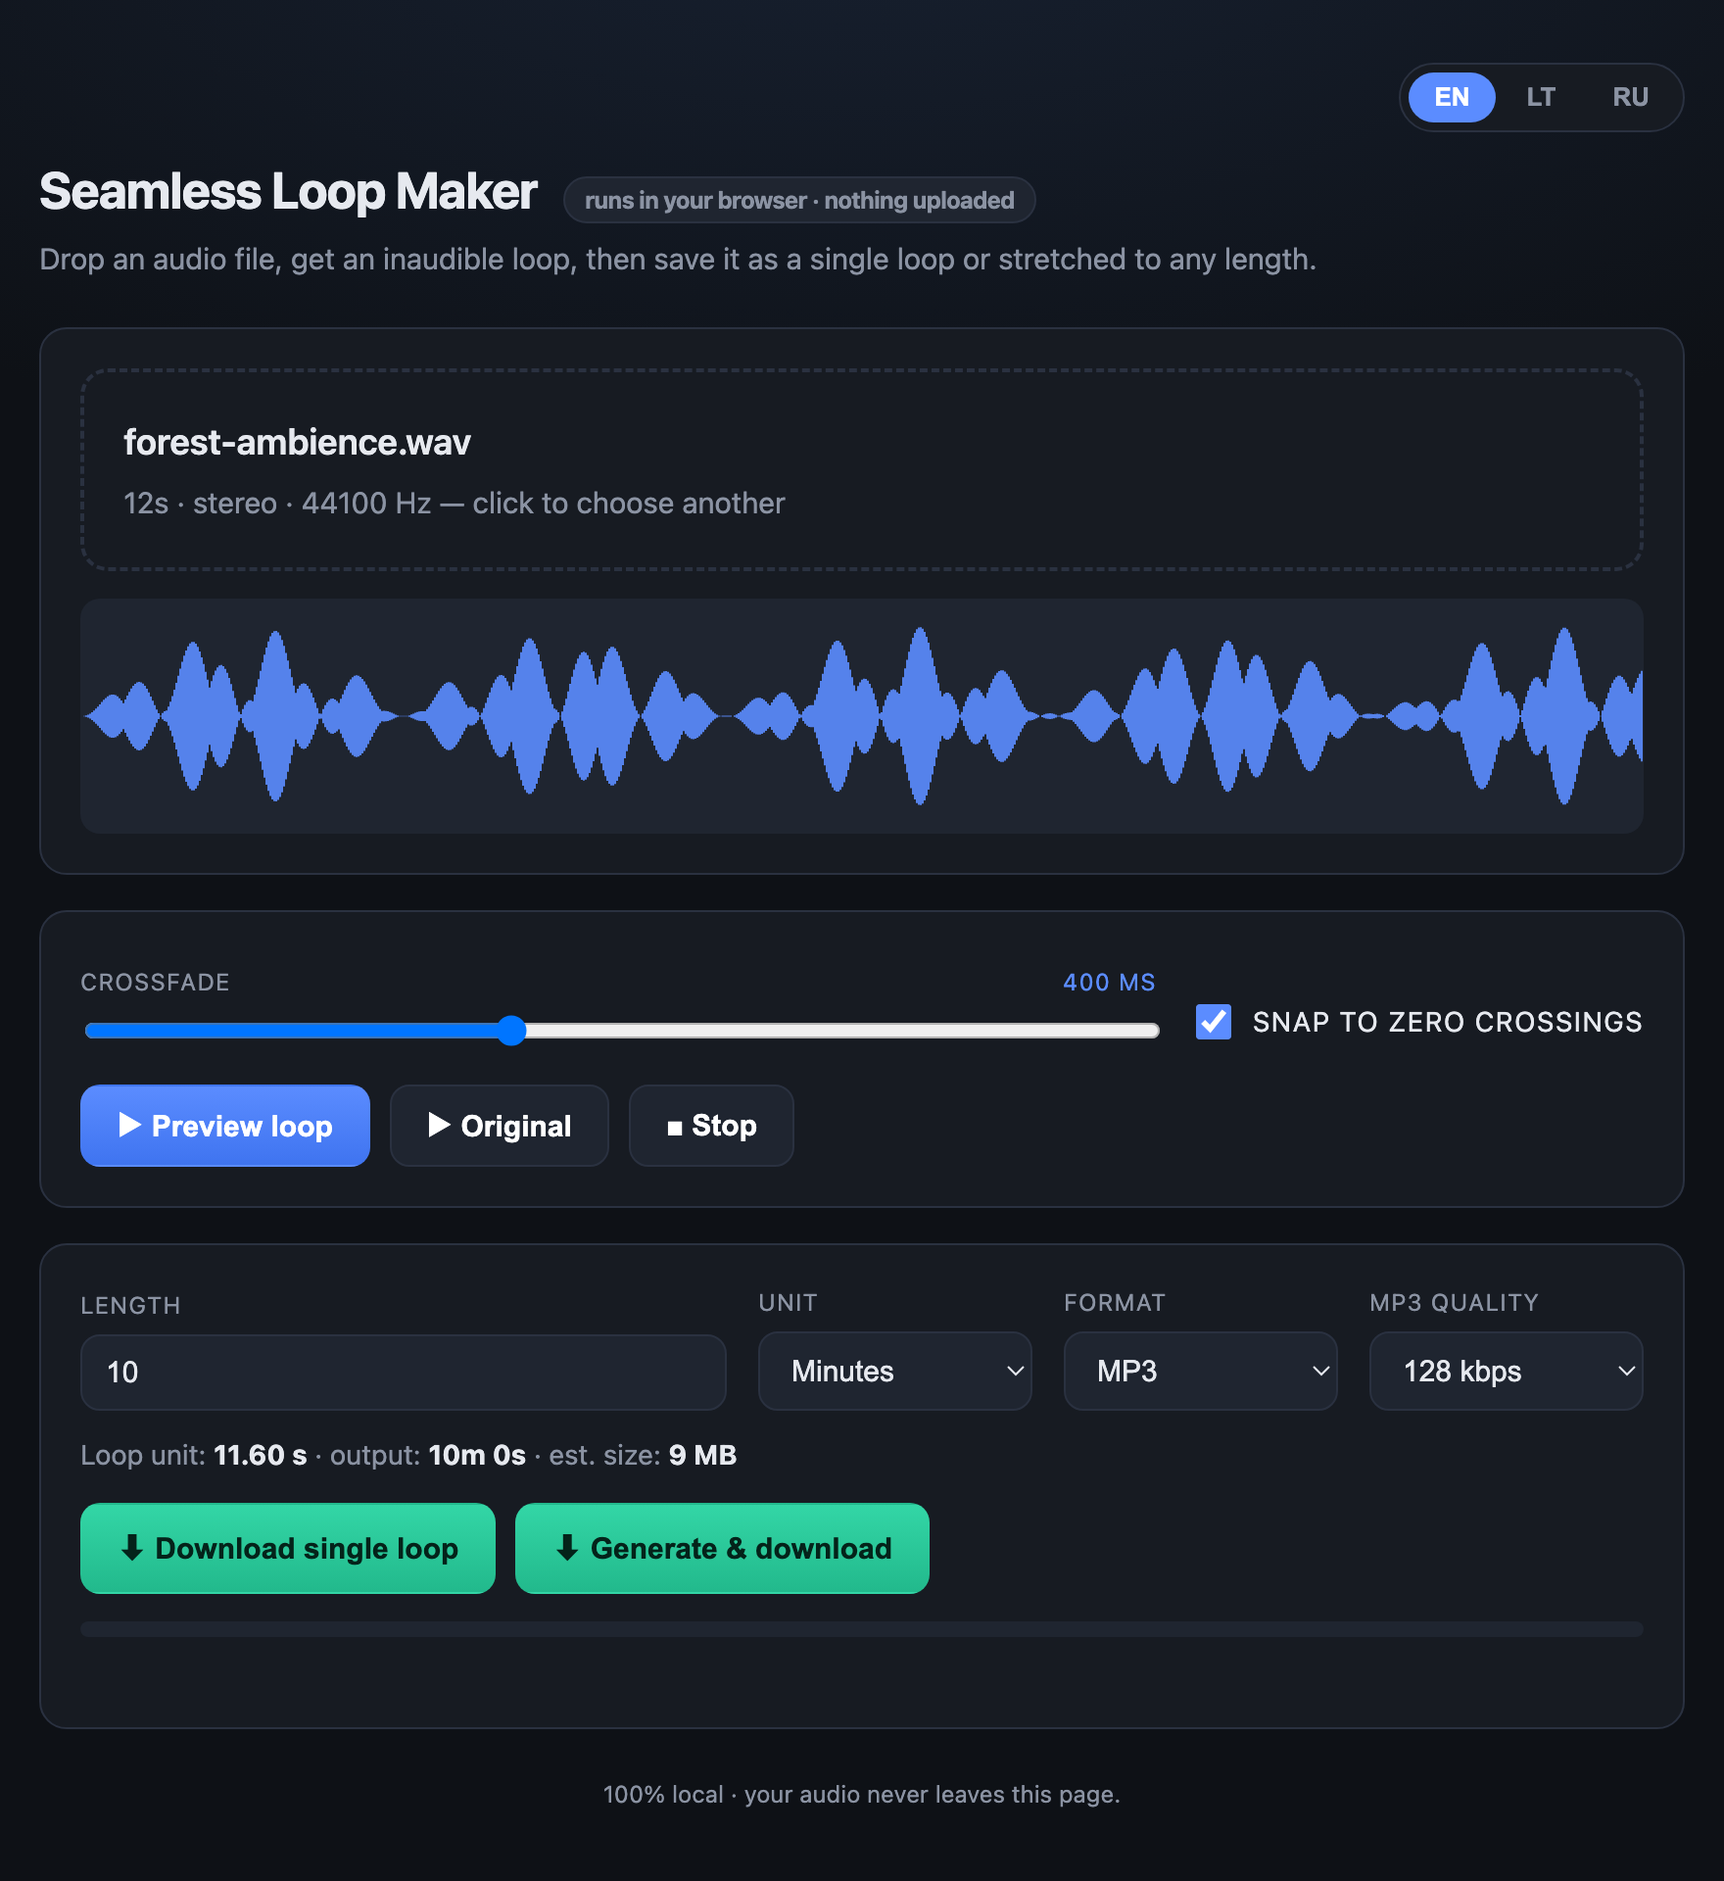
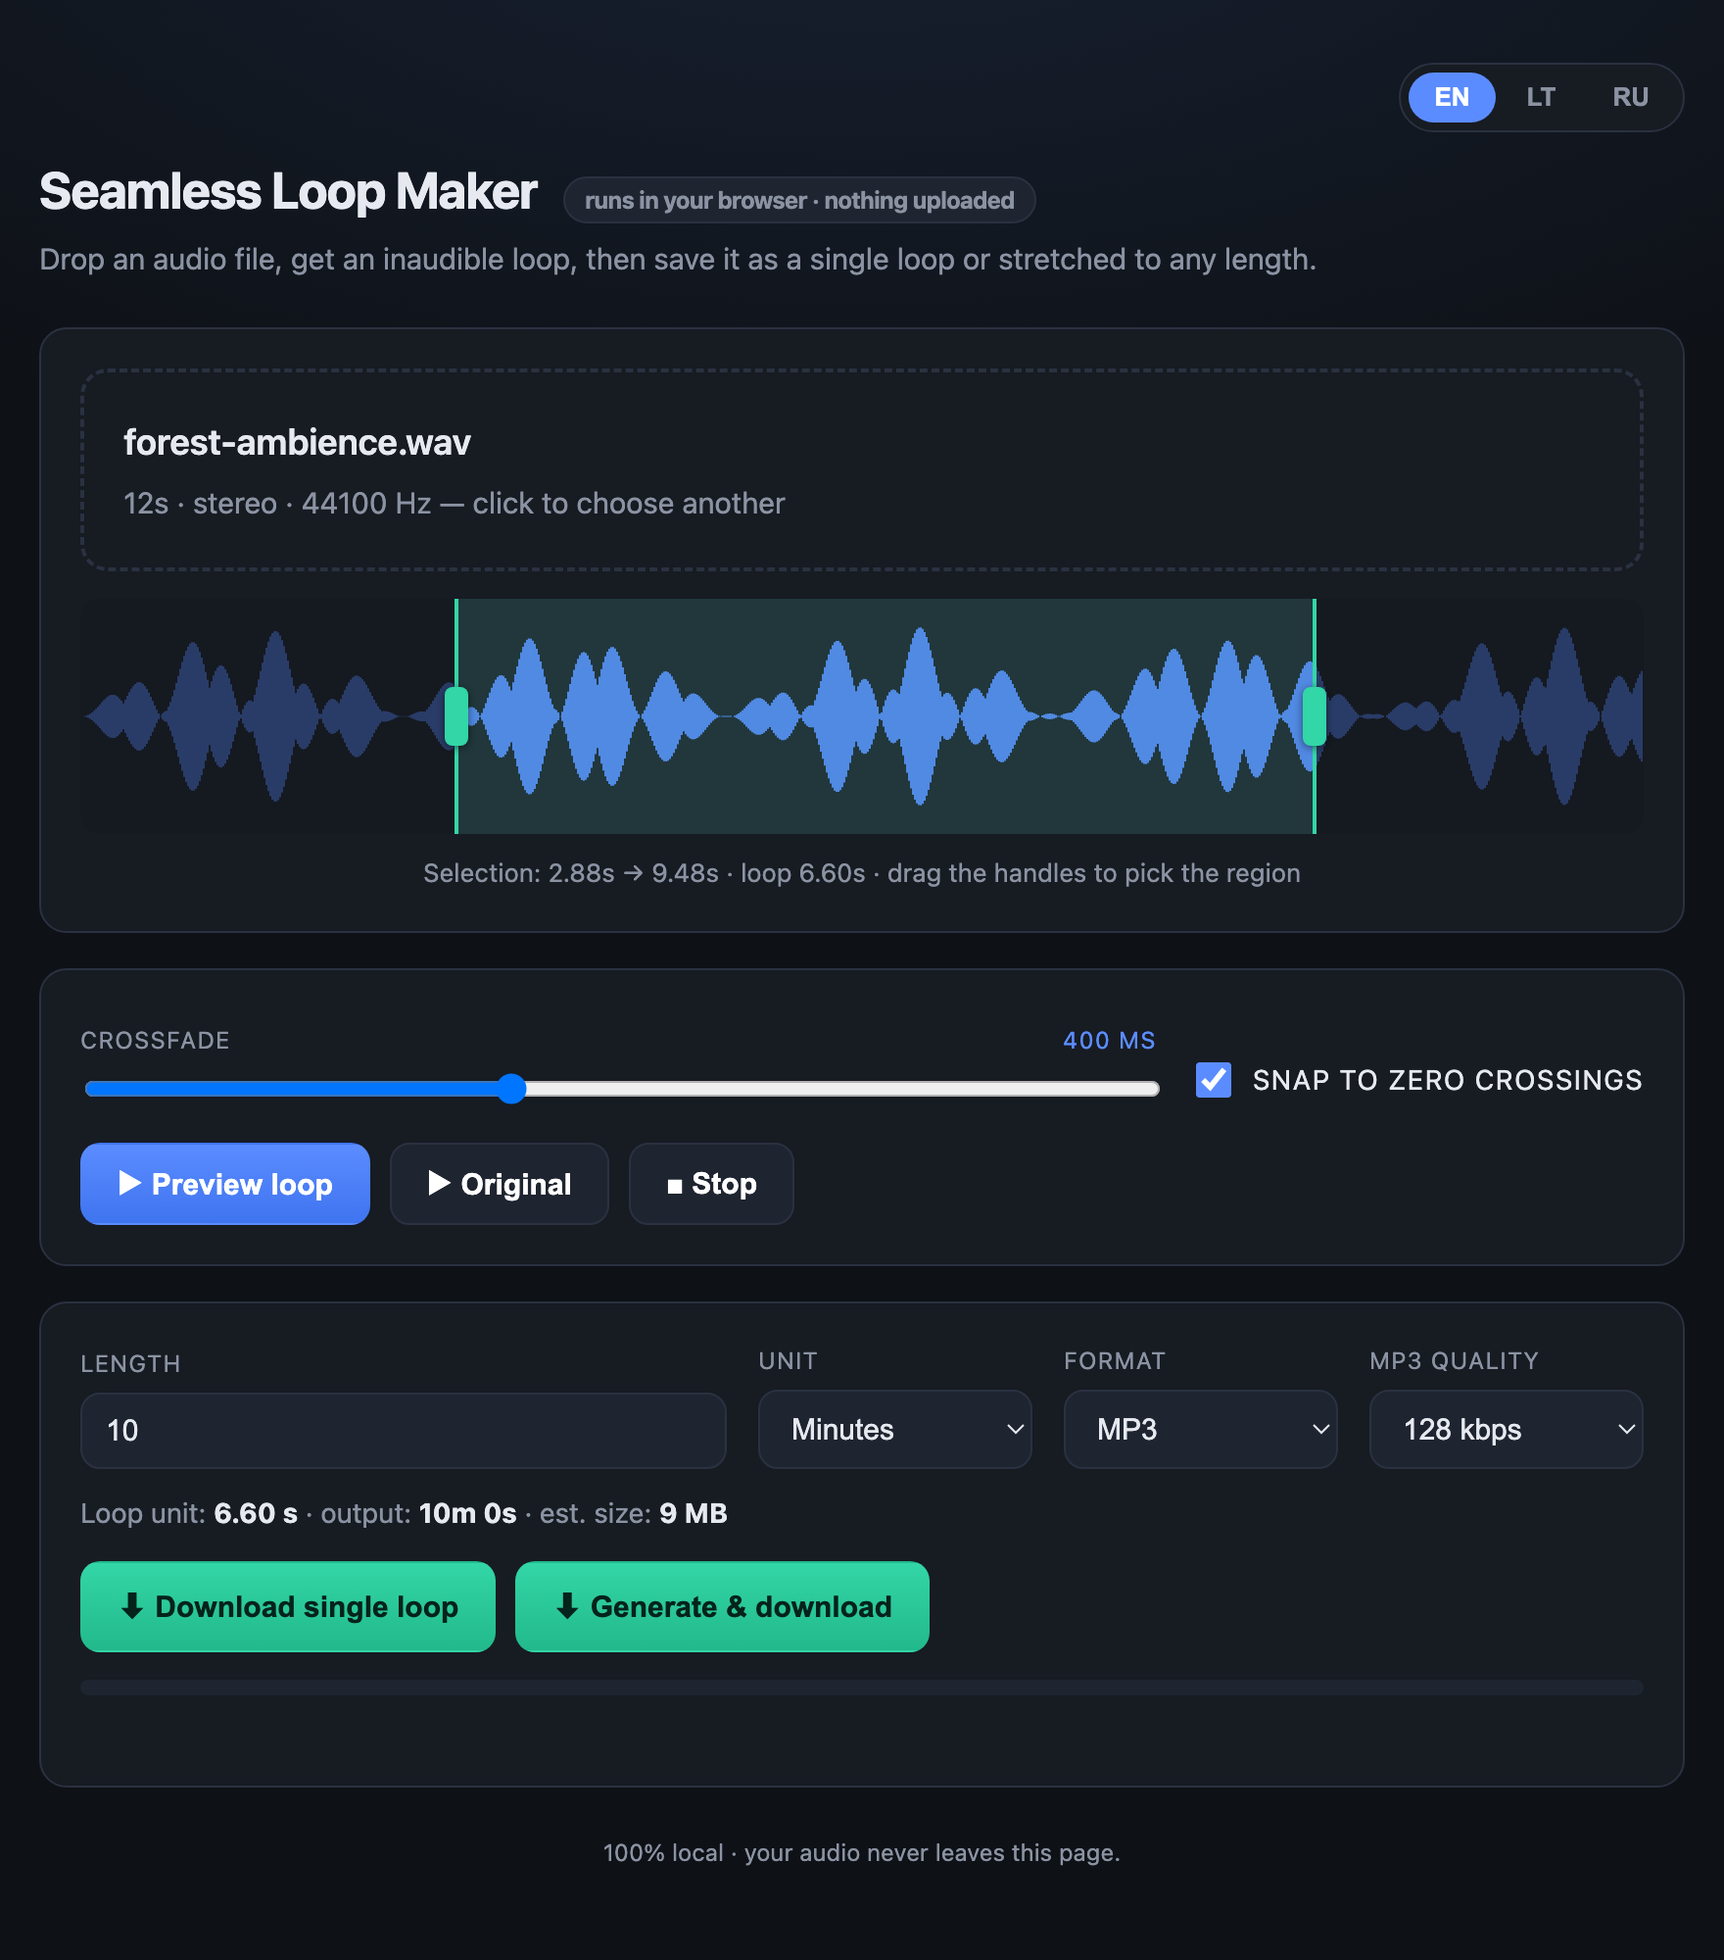
feat: select loop region with draggable waveform handles
- Draw the full source waveform; two draggable handles pick the loop
  segment, region outside is dimmed, live start/end/length readout.
- buildLoopUnit + crossfade now operate on the selected region.
- selection readout localized (EN/LT/RU); README + screenshot updated.

diff --git a/index.html b/index.html
@@ -28,7 +28,15 @@
   #drop .big{font-size:18px; font-weight:600}
   #drop .small{color:var(--muted); margin-top:6px}
   #drop.loaded{padding:22px 20px; text-align:left}
-  canvas{width:100%; height:120px; display:block; background:var(--panel2); border-radius:10px; margin-top:14px}
+  #waveWrap{position:relative; height:120px; margin-top:14px; touch-action:none; user-select:none; -webkit-user-select:none}
+  #waveWrap.hidden{display:none!important}
+  #wave{position:absolute; inset:0; width:100%; height:100%; display:block; background:var(--panel2); border-radius:10px}
+  .handle{position:absolute; top:0; bottom:0; width:16px; margin-left:-8px; cursor:ew-resize; z-index:3; touch-action:none}
+  .handle::before{content:''; position:absolute; left:7px; top:0; bottom:0; width:2px; background:var(--accent2)}
+  .handle::after{content:''; position:absolute; left:2px; top:50%; transform:translateY(-50%); width:12px; height:30px; border-radius:4px; background:var(--accent2); box-shadow:0 1px 4px rgba(0,0,0,.5)}
+  .selInfo{margin-top:10px; color:var(--muted); font-size:13px; text-align:center}
+  .selInfo.hidden{display:none!important}
+  .selInfo b{color:var(--txt)}
   .hidden{display:none!important}
   .row{display:flex; gap:16px; flex-wrap:wrap; align-items:flex-end}
   .field{flex:1; min-width:140px}
@@ -84,7 +92,12 @@
       <div class="small" data-i18n="dropSmall">or click to browse — WAV, MP3, OGG, FLAC, M4A …</div>
       <input id="file" type="file" accept="audio/*" class="hidden">
     </div>
-    <canvas id="wave" class="hidden"></canvas>
+    <div id="waveWrap" class="hidden">
+      <canvas id="wave"></canvas>
+      <div class="handle" id="hStart"></div>
+      <div class="handle" id="hEnd"></div>
+    </div>
+    <div class="selInfo hidden" id="selInfo"></div>
   </div>
 
   <div id="editor" class="card hidden">
@@ -459,7 +472,7 @@ a.length>D&&(D=a.length,p=0|1.25*D+7200,r=new Int8Array(p));a=u.lame_encode_buff
 (()=>{
   "use strict";
   const $=id=>document.getElementById(id);
-  const drop=$('drop'), fileInput=$('file'), waveCanvas=$('wave');
+  const drop=$('drop'), fileInput=$('file'), waveCanvas=$('wave'), waveWrap=$('waveWrap'), hStart=$('hStart'), hEnd=$('hEnd'), selInfo=$('selInfo');
   const editor=$('editor'), exporter=$('exporter');
   const xf=$('xf'), xfVal=$('xfVal'), snap=$('snap');
   const playLoopBtn=$('playLoop'), playOrigBtn=$('playOrig'), stopBtn=$('stop');
@@ -477,6 +490,7 @@ a.length>D&&(D=a.length,p=0|1.25*D+7200,r=new Int8Array(p));a=u.lame_encode_buff
   let busy=false;
   let loadedInfo=null;    // {dur,ch,sr} of current file, for re-rendering on language change
   let lastStatusKey=null; // {key,vars,cls} of last translatable status
+  let selStart=0, selEnd=0; // selected loop region, in source samples
 
   const ctx=()=> ac||(ac=new (window.AudioContext||window.webkitAudioContext)());
 
@@ -497,7 +511,8 @@ a.length>D&&(D=a.length,p=0|1.25*D+7200,r=new Int8Array(p));a=u.lame_encode_buff
       estLine:"Loop unit: {loop} · output: {out} · est. size: {size}",
       bigWarn:" — that's a large file; consider MP3 or a shorter length.",
       done:"Done ✓", failedPrefix:"Failed: ", memHint:" — try MP3 or a shorter length.",
-      encoding:"Encoding… {p}%", enterLen:"Enter a length greater than 0."
+      encoding:"Encoding… {p}%", enterLen:"Enter a length greater than 0.",
+      selection:"Selection: {a}s → {b}s · loop {len}s · drag the handles to pick the region"
     },
     lt:{
       title:"Sklandžių kilpų kūrėjas", badge:"veikia jūsų naršyklėje · niekas neįkeliama",
@@ -514,7 +529,8 @@ a.length>D&&(D=a.length,p=0|1.25*D+7200,r=new Int8Array(p));a=u.lame_encode_buff
       estLine:"Kilpos ilgis: {loop} · rezultatas: {out} · numatomas dydis: {size}",
       bigWarn:" — tai didelis failas; rinkitės MP3 arba trumpesnę trukmę.",
       done:"Atlikta ✓", failedPrefix:"Klaida: ", memHint:" — bandykite MP3 arba trumpesnę trukmę.",
-      encoding:"Koduojama… {p}%", enterLen:"Įveskite trukmę, didesnę už 0."
+      encoding:"Koduojama… {p}%", enterLen:"Įveskite trukmę, didesnę už 0.",
+      selection:"Pasirinkta: {a}s → {b}s · kilpa {len}s · vilkite rankenėles regionui pasirinkti"
     },
     ru:{
       title:"Создание бесшовных лупов", badge:"работает в браузере · ничего не загружается",
@@ -531,7 +547,8 @@ a.length>D&&(D=a.length,p=0|1.25*D+7200,r=new Int8Array(p));a=u.lame_encode_buff
       estLine:"Луп: {loop} · результат: {out} · примерный размер: {size}",
       bigWarn:" — это большой файл; выберите MP3 или меньшую длительность.",
       done:"Готово ✓", failedPrefix:"Ошибка: ", memHint:" — попробуйте MP3 или меньшую длительность.",
-      encoding:"Кодирование… {p}%", enterLen:"Введите длительность больше 0."
+      encoding:"Кодирование… {p}%", enterLen:"Введите длительность больше 0.",
+      selection:"Выделение: {a}s → {b}s · луп {len}s · перетащите маркеры, чтобы выбрать участок"
     }
   };
   const SUPPORTED=['en','lt','ru'];
@@ -555,6 +572,7 @@ a.length>D&&(D=a.length,p=0|1.25*D+7200,r=new Int8Array(p));a=u.lame_encode_buff
     document.querySelectorAll('.lang').forEach(b=>b.classList.toggle('active',b.dataset.lang===lang));
     if(loadedInfo) renderFileInfo();
     if(unitChannels) updateEst();
+    if(srcBuffer) updateSelInfo();
     if(lastStatusKey){ status.textContent=t(lastStatusKey.key,lastStatusKey.vars); status.className='status '+(lastStatusKey.cls||''); }
   }
   document.querySelectorAll('.lang').forEach(b=>b.addEventListener('click',()=>{
@@ -583,7 +601,9 @@ a.length>D&&(D=a.length,p=0|1.25*D+7200,r=new Int8Array(p));a=u.lame_encode_buff
     drop.querySelector('.big').textContent=file.name;
     loadedInfo={dur:srcBuffer.duration, ch:numCh, sr:sampleRate};
     renderFileInfo();
-    waveCanvas.classList.remove('hidden');
+    selStart=0; selEnd=srcBuffer.length;
+    waveWrap.classList.remove('hidden');
+    selInfo.classList.remove('hidden');
     editor.classList.remove('hidden');
     exporter.classList.remove('hidden');
     rebuild();
@@ -591,9 +611,9 @@ a.length>D&&(D=a.length,p=0|1.25*D+7200,r=new Int8Array(p));a=u.lame_encode_buff
   }
 
   // ---------- loop building ----------
-  function nearestZeroCross(data, idx, window){
+  function nearestZeroCross(data, idx, window, loB, hiB){
     let best=idx, bestDist=Infinity;
-    const lo=Math.max(1,idx-window), hi=Math.min(data.length-1,idx+window);
+    const lo=Math.max(loB==null?1:loB,idx-window), hi=Math.min(hiB==null?data.length-1:hiB,idx+window);
     for(let i=lo;i<=hi;i++){
       if((data[i-1]<=0&&data[i]>0)||(data[i-1]>=0&&data[i]<0)){
         const d=Math.abs(i-idx);
@@ -605,48 +625,79 @@ a.length>D&&(D=a.length,p=0|1.25*D+7200,r=new Int8Array(p));a=u.lame_encode_buff
 
   // Equal-power crossfade: fold the tail back over the head so end→start is seamless.
   function buildLoopUnit(){
-    const N=srcBuffer.length;
+    const s0=selStart, e0=selEnd, M=e0-s0;  // selected segment in source samples
     let f=Math.round(parseInt(xf.value,10)/1000*sampleRate);
-    f=Math.max(2,Math.min(f,Math.floor(N/2)));
-    let L=N-f;                              // output (loop unit) length
+    f=Math.max(2,Math.min(f,Math.floor(M/2)));
+    let L=M-f;                              // output (loop unit) length
     if(snap.checked){
-      const snapped=nearestZeroCross(srcBuffer.getChannelData(0), L, Math.round(sampleRate*0.005));
-      L=Math.max(f+1,Math.min(snapped,N-2));
-      f=N-L;
+      const snapped=nearestZeroCross(srcBuffer.getChannelData(0), s0+L, Math.round(sampleRate*0.005), s0+1, e0-1);
+      L=Math.max(f+1,Math.min(snapped-s0,M-2));
+      f=M-L;
     }
     const out=[];
     for(let c=0;c<numCh;c++){
       const s=srcBuffer.getChannelData(c);
       const o=new Float32Array(L);
-      o.set(s.subarray(0,L));
+      for(let i=0;i<L;i++) o[i]=s[s0+i];
       for(let i=0;i<f;i++){
         const t=(i+0.5)/f;
         const win=Math.sin(t*Math.PI/2), wout=Math.cos(t*Math.PI/2);
-        o[i]=s[i]*win + s[i+L]*wout;        // head fades in, tail fades out
+        o[i]=s[s0+i]*win + s[s0+L+i]*wout;  // head fades in, tail fades out
       }
       out.push(o);
     }
     unitChannels=out; unitLength=L;
   }
 
-  function rebuild(){ if(srcBuffer){ buildLoopUnit(); drawWave(); updateEst(); } }
+  function rebuild(){ if(srcBuffer){ buildLoopUnit(); drawWave(); updateEst(); updateSelInfo(); } }
 
-  // ---------- waveform ----------
+  // ---------- waveform + region selection ----------
   function drawWave(){
+    if(!srcBuffer) return;
     const dpr=window.devicePixelRatio||1;
-    const w=waveCanvas.clientWidth, h=120;
+    const w=waveWrap.clientWidth, h=120;
     waveCanvas.width=w*dpr; waveCanvas.height=h*dpr;
-    const g=waveCanvas.getContext('2d'); g.scale(dpr,dpr);
+    const g=waveCanvas.getContext('2d'); g.setTransform(dpr,0,0,dpr,0,0);
     g.clearRect(0,0,w,h);
-    const data=unitChannels[0], step=Math.max(1,Math.floor(data.length/w)), mid=h/2;
+    const data=srcBuffer.getChannelData(0), N=data.length, step=Math.max(1,Math.floor(N/w)), mid=h/2;
     g.strokeStyle='#5b8cff'; g.globalAlpha=.9; g.beginPath();
     for(let x=0;x<w;x++){
-      let min=1,max=-1;
-      for(let i=0;i<step;i++){ const v=data[x*step+i]||0; if(v<min)min=v; if(v>max)max=v; }
+      let min=1,max=-1; const base=x*step;
+      for(let i=0;i<step;i++){ const v=data[base+i]||0; if(v<min)min=v; if(v>max)max=v; }
       g.moveTo(x,mid+min*mid*0.95); g.lineTo(x,mid+max*mid*0.95);
     }
     g.stroke();
+    const xs=selStart/N*w, xe=selEnd/N*w;       // dim outside the selection, tint inside
+    g.globalAlpha=1; g.fillStyle='rgba(14,17,22,0.62)';
+    g.fillRect(0,0,xs,h); g.fillRect(xe,0,w-xe,h);
+    g.fillStyle='rgba(51,214,166,0.10)'; g.fillRect(xs,0,Math.max(0,xe-xs),h);
+    positionHandles();
   }
+  function positionHandles(){
+    if(!srcBuffer) return;
+    const N=srcBuffer.length, w=waveWrap.clientWidth;
+    hStart.style.left=(selStart/N*w)+'px';
+    hEnd.style.left=(selEnd/N*w)+'px';
+  }
+  function updateSelInfo(){
+    if(!srcBuffer) return;
+    selInfo.innerHTML=t('selection',{
+      a:(selStart/sampleRate).toFixed(2), b:(selEnd/sampleRate).toFixed(2), len:((selEnd-selStart)/sampleRate).toFixed(2)
+    });
+  }
+  let dragging=null;
+  const fracFromX=cx=>{ const r=waveWrap.getBoundingClientRect(); return Math.min(1,Math.max(0,(cx-r.left)/r.width)); };
+  function onDragMove(e){
+    if(!dragging||!srcBuffer) return;
+    const N=srcBuffer.length, smp=Math.round(fracFromX(e.clientX)*N), gap=Math.max(Math.round(sampleRate*0.05),4);
+    if(dragging==='start') selStart=Math.max(0,Math.min(smp,selEnd-gap));
+    else selEnd=Math.min(N,Math.max(smp,selStart+gap));
+    rebuild();
+  }
+  function endDrag(){ dragging=null; window.removeEventListener('pointermove',onDragMove); window.removeEventListener('pointerup',endDrag); }
+  const beginDrag=which=>e=>{ e.preventDefault(); dragging=which; window.addEventListener('pointermove',onDragMove); window.addEventListener('pointerup',endDrag); };
+  hStart.addEventListener('pointerdown',beginDrag('start'));
+  hEnd.addEventListener('pointerdown',beginDrag('end'));
 
   // ---------- preview ----------
   function stopPreview(){ if(source){ try{source.stop();}catch(_){ } source=null; } }
@@ -765,7 +816,7 @@ a.length>D&&(D=a.length,p=0|1.25*D+7200,r=new Int8Array(p));a=u.lame_encode_buff
     return h?`${h}h ${m}m ${sec}s`:m?`${m}m ${sec}s`:`${sec}s`; }
   function fmtBytes(b){ const u=['B','KB','MB','GB']; let i=0; while(b>=1024&&i<u.length-1){b/=1024;i++;} return b.toFixed(b<10&&i?1:0)+' '+u[i]; }
 
-  window.addEventListener('resize',()=>{ if(unitChannels) drawWave(); });
+  window.addEventListener('resize',()=>{ if(srcBuffer) drawWave(); });
 
   applyLang();   // set initial language (saved preference → browser language → English)
 })();

diff --git a/README.md b/README.md
@@ -9,6 +9,7 @@ Drop an audio file, get an **inaudible seamless loop**, then save it as a single
 ## Features
 
 - **Drag & drop** any audio the browser can decode — WAV, MP3, OGG, FLAC, M4A…
+- **Pick the loop region** — drag two handles over the waveform to select exactly the segment you want to loop; everything outside the selection is dimmed and a live readout shows the start/end/length.
 - **Equal-power crossfade loop** — folds the tail back over the head so the end → start transition is click-free, with an adjustable crossfade (default **400 ms**) and optional **zero-crossing snap**.
 - **Live preview** — loop the result instantly and A/B it against the original.
 - **Export a single loop** — the tiny seamless unit, perfect for game engines, web players, or anything that loops natively.
@@ -19,8 +20,9 @@ Drop an audio file, get an **inaudible seamless loop**, then save it as a single
 ## How to use
 
 1. Open the [app](https://lukaskornis.github.io/seamless-loop/) and drop in an audio file.
-2. Adjust the **Crossfade** slider and hit **Preview loop** until the seam is inaudible.
-3. Either **Download single loop**, or set a **Length** + **Format** and click **Generate & download**.
+2. **Drag the two handles** over the waveform to select the segment you want to loop.
+3. Adjust the **Crossfade** slider and hit **Preview loop** until the seam is inaudible.
+4. Either **Download single loop**, or set a **Length** + **Format** and click **Generate & download**.
 
 ## Why it's seamless
 
